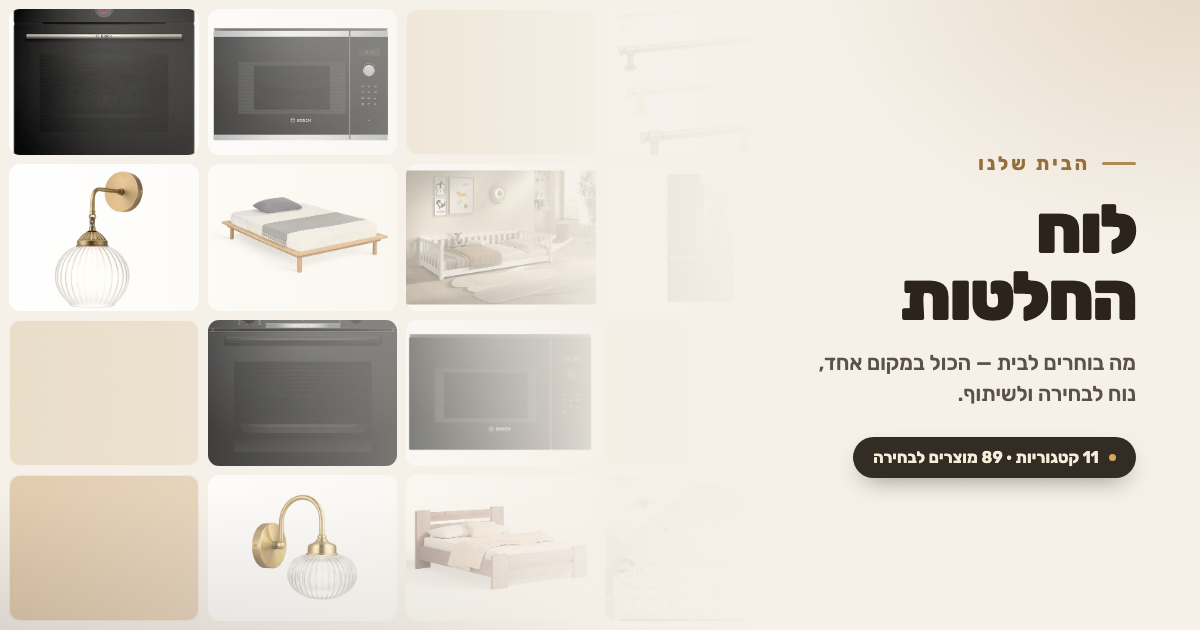
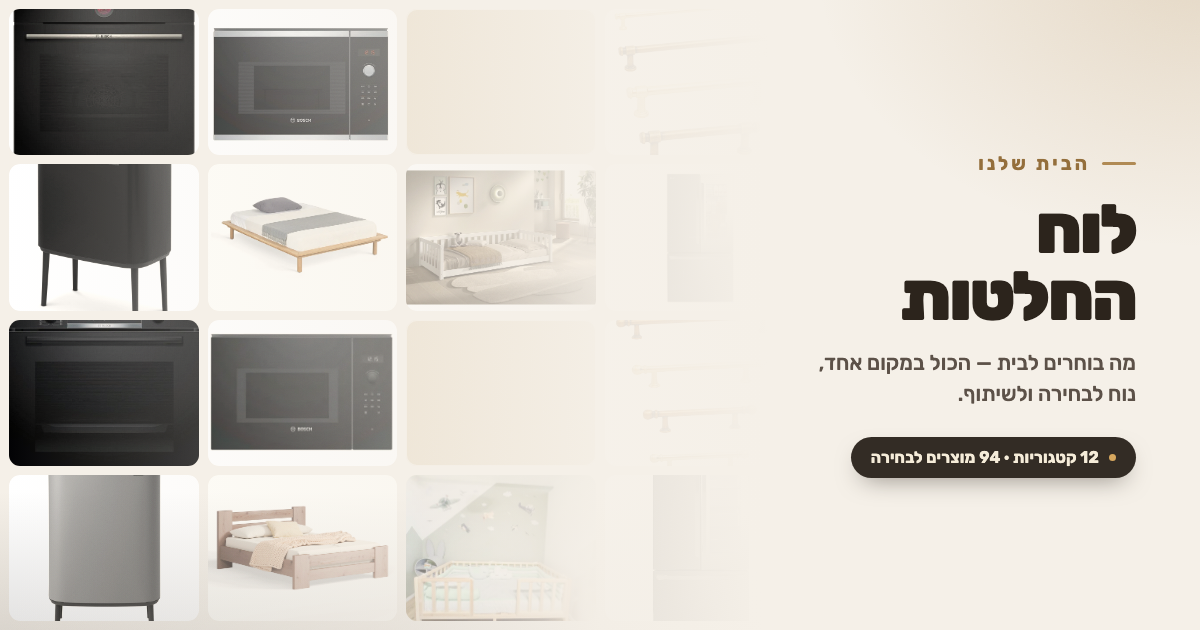
Refresh OG preview image for the new category (12 categories, 130 items)

Changed region(s): [[0.0, 0.2413, 0.4933, 0.9952], [0.7092, 0.6937, 0.925, 0.754]]

diff --git a/og.html b/og.html
@@ -43,6 +43,7 @@ h1{font-size:68px;font-weight:900;color:#2c241c;line-height:.98;letter-spacing:-
   <div class="tile"><img src="https://www.electricland.co.il/images/itempics/GMZ765_280520251555060_large.jpg" loading="eager" onerror="this.style.display='none'"></div>
   <div class="tile"><img src="https://homage-design.co.il/cdn/shop/files/DAKB9014_ZP_b830.jpg" loading="eager" onerror="this.style.display='none'"></div>
   <div class="tile"><img src="https://kualastyle.com/cdn/shop/products/limor-2.jpg?v=1760204940" loading="eager" onerror="this.style.display='none'"></div>
+  <div class="tile"><img src="https://www.brassbrands.co.il/media/catalog/product/cache/1/small_image/600x600/9df78eab33525d08d6e5fb8d27136e95/y/-/y-315824_bo-touch-bin-black-001.jpg" loading="eager" onerror="this.style.display='none'"></div>
   <div class="tile"><img src="img/k2.webp" loading="eager" onerror="this.style.display='none'"></div>
   <div class="tile" style="background:#e1dbc6"></div>
   <div class="tile"><img src="img/handle02.jpg" loading="eager" onerror="this.style.display='none'"></div>
@@ -54,8 +55,7 @@ h1{font-size:68px;font-weight:900;color:#2c241c;line-height:.98;letter-spacing:-
   <div class="tile"><img src="https://www.mahsanyvoan.co.il/images/itempics/R-3D288BINS_2703202615232514061_large.jpg" loading="eager" onerror="this.style.display='none'"></div>
   <div class="tile"><img src="https://www.kidikids.co.il/wp-content/uploads/2024/09/10778-40.jpeg" loading="eager" onerror="this.style.display='none'"></div>
   <div class="tile"><img src="https://kualastyle.com/cdn/shop/products/178_ASPEN-6563072016539.jpg?v=1760344922" loading="eager" onerror="this.style.display='none'"></div>
-  <div class="tile"><img src="img/silo_1.webp" loading="eager" onerror="this.style.display='none'"></div>
-  <div class="tile" style="background:#e1caad"></div>
+  <div class="tile"><img src="https://www.brassbrands.co.il/media/catalog/product/cache/1/image/680x680/040ec09b1e35df139433887a97daa66f/b/r/brabantia-bo-touch-bin-hi-60l-mineral-concrete-grey-12-y-130281.jpg" loading="eager" onerror="this.style.display='none'"></div>
 </div>
 <div class="scrim"></div>
 <div class="grain"></div>
@@ -63,6 +63,6 @@ h1{font-size:68px;font-weight:900;color:#2c241c;line-height:.98;letter-spacing:-
   <div class="kick">הבית שלנו</div>
   <h1>לוח החלטות</h1>
   <div class="lead">מה בוחרים לבית — הכול במקום אחד, נוח לבחירה ולשיתוף.</div>
-  <div class="badge"><span class="dot"></span>11 קטגוריות · 89 מוצרים לבחירה</div>
+  <div class="badge"><span class="dot"></span>12 קטגוריות · 94 מוצרים לבחירה</div>
 </div>
 </body></html>
